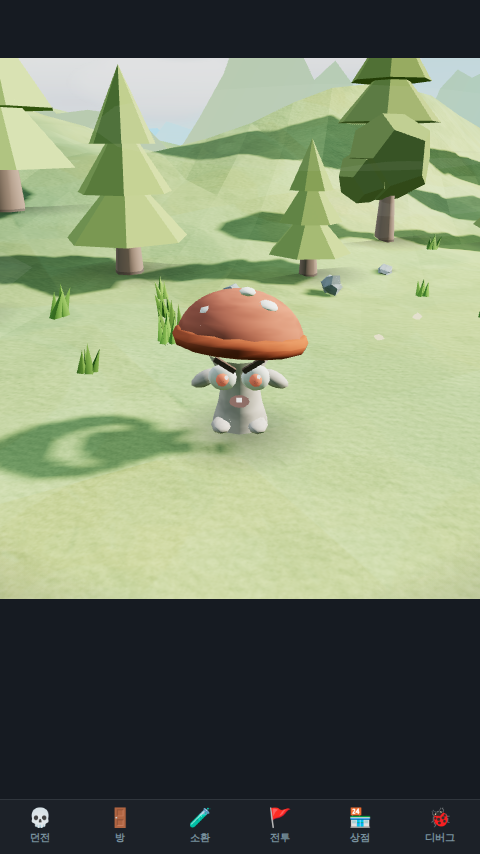
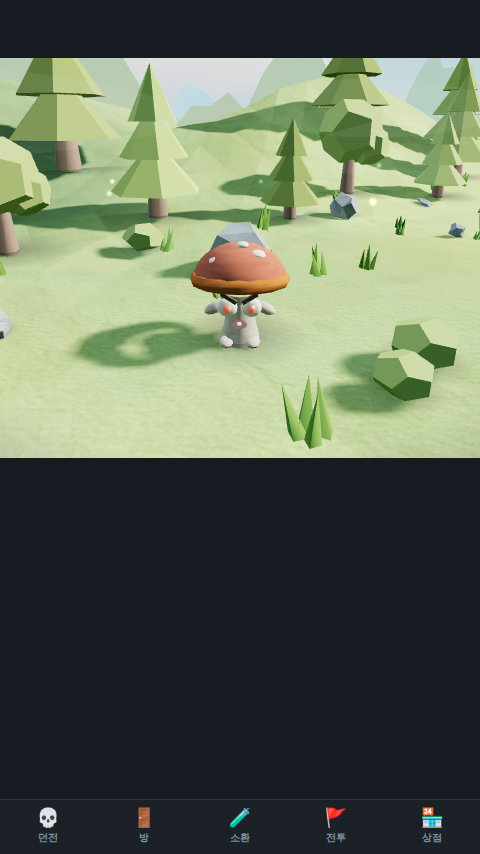
투구 '풍선' 결함 재작업(비평가 5.0 재채점 반영): 두상 밀착 0.85 피팅+스틸 혼합 Phong 금속 재질, 바이저 슬릿 확장+발광 눈 확대(가시화), tech 안테나 소켓 마감, 머리 0.78 재축소+목 기둥 신설, 검증샷 갱신

diff --git a/web/js/scene3d.js b/web/js/scene3d.js
@@ -1791,7 +1791,11 @@ const Scene3D = {
         const g = new THREE.Group();
         const c = AGE_COLORS[age];
         const pc = RARITY_HEX[rarity] || 0xef5350; // 장식 = 등급색
-        const mat = new THREE.MeshLambertMaterial({ color: c });
+        // 시대색 직치환 Lambert는 '고무 풍선'으로 읽힘(비평가) — 스틸 톤에 섞은 뒤 금속 스펙큘러 부여 (갑옷 tint와 동일 원칙)
+        const mat = new THREE.MeshPhongMaterial({
+            color: new THREE.Color(c).lerp(new THREE.Color(0xb8c4cf), 0.32).offsetHSL(0, -0.06, -0.02),
+            shininess: 40, specular: 0x4d565e
+        });
         const darkMat = new THREE.MeshLambertMaterial({ color: 0x263238 });
         const rareMat = new THREE.MeshLambertMaterial({ color: pc, emissive: pc, emissiveIntensity: 0.45 });
         style = style || 'plume';
@@ -1823,22 +1827,22 @@ const Scene3D = {
             helm.scale.set(0.97, 1.02, 1);
             // 슬릿 = 함몰 캐비티: 칠흑 내부 + 림 테두리 + 언릿 발광 눈 (표면 데칼 'T 스티커' 오독 제거, 비평가 지적)
             const cavity = new THREE.MeshBasicMaterial({ color: 0x0c0f12 });
-            const slit = new THREE.Mesh(new THREE.BoxGeometry(0.185, 0.042, 0.07), cavity);
-            slit.position.set(0, 0.06, 0.222); // 림 타원 안쪽에 맞춤 — 모서리가 림 밖으로 새면 '검은 사각 스티커'
-            const rimGeo = new THREE.TorusGeometry(0.105, 0.011, 5, 14); // 슬릿 개구부 금속 림 — 재질 경계로 '뚫린 구멍' 판독
+            const slit = new THREE.Mesh(new THREE.BoxGeometry(0.23, 0.052, 0.07), cavity);
+            slit.position.set(0, 0.06, 0.234); // 림 타원 안쪽에 맞춤 — 모서리가 림 밖으로 새면 '검은 사각 스티커'
+            const rimGeo = new THREE.TorusGeometry(0.128, 0.012, 5, 14); // 슬릿 개구부 금속 림 — 재질 경계로 '뚫린 구멍' 판독
             rimGeo.scale(1, 0.32, 1);
-            const slitRim = new THREE.Mesh(rimGeo, mat);
-            slitRim.position.set(0, 0.06, 0.268);
+            const slitRim = new THREE.Mesh(rimGeo, new THREE.MeshLambertMaterial({ color: mat.color.clone().offsetHSL(0, 0, -0.08) })); // 무광 — Phong 하이라이트가 '유리 브로치'로 오독되던 문제
+            slitRim.position.set(0, 0.06, 0.28);
             g.add(slitRim);
             for (const dx of [-0.055, 0.055]) { // 캐비티 속 언릿 발광 눈 — 어둠 대비 최대
-                const glowEye = new THREE.Mesh(new THREE.SphereGeometry(0.018, 6, 5),
-                    new THREE.MeshBasicMaterial({ color: new THREE.Color(pc).offsetHSL(0, 0.1, 0.18) }));
-                glowEye.position.set(dx, 0.06, 0.276); // 캐비티 전면보다 앞 — 가려지면 무광 슬릿만 남음
+                const glowEye = new THREE.Mesh(new THREE.SphereGeometry(0.027, 6, 5),
+                    new THREE.MeshBasicMaterial({ color: new THREE.Color(pc).offsetHSL(0, 0.18, 0.24) }));
+                glowEye.position.set(dx * 1.2, 0.06, 0.288); // 캐비티 전면보다 앞 — 가려지면 무광 슬릿만 남음
                 glowEye.scale.set(1.3, 0.75, 0.5);
                 g.add(glowEye);
             }
             const noseBar = new THREE.Mesh(new THREE.BoxGeometry(0.045, 0.16, 0.05), mat); // 코 가드 세로 바
-            noseBar.position.set(0, -0.02, 0.25);
+            noseBar.position.set(0, -0.02, 0.262);
             const crest = new THREE.Mesh(new THREE.TorusGeometry(0.21, 0.03, 6, 14, Math.PI * 0.8), rareMat); // 정수리 볏 아크
             crest.position.y = 0.13;
             crest.rotation.y = Math.PI / 2;
@@ -1896,7 +1900,7 @@ const Scene3D = {
             }
         } else if (style === 'tech') {      // 메카 헬름 — 곡면 셸 + 랩어라운드 발광 바이저 (박스 금지, 비평가 1위 결함 재작업)
             const shell = new THREE.Mesh(new THREE.SphereGeometry(0.29, 10, 8), mat);
-            shell.material = new THREE.MeshLambertMaterial({ color: c });
+            shell.material = new THREE.MeshLambertMaterial({ color: new THREE.Color(c).lerp(new THREE.Color(0xb8c4cf), 0.28) }); // 스틸 혼합 — 원색 풍선 방지
             shell.material.flatShading = true;                 // 저폴리 패싯 — 메카 판넬 인상
             shell.position.y = 0.06;
             shell.scale.set(0.98, 0.92, 1.05);
@@ -1925,12 +1929,15 @@ const Scene3D = {
             rGeo.rotateY(Math.PI / 2);
             const ridge = new THREE.Mesh(rGeo, darkMat);
             ridge.position.y = 0.075;
+            const antSock = new THREE.Mesh(new THREE.CylinderGeometry(0.032, 0.046, 0.07, 8), darkMat); // 안테나 소켓 — 셸을 그냥 뚫고 나오던 클리핑(비평가) 마감
+            antSock.position.set(0.195, 0.285, -0.06);
+            antSock.rotation.z = -0.18;
             const ant = new THREE.Mesh(new THREE.CylinderGeometry(0.012, 0.012, 0.2, 6), darkMat);
-            ant.position.set(0.19, 0.34, -0.06);
+            ant.position.set(0.213, 0.4, -0.06);
             ant.rotation.z = -0.18;
             const antTip = new THREE.Mesh(new THREE.SphereGeometry(0.026, 6, 6), rareMat);
-            antTip.position.set(0.21, 0.44, -0.06);
-            g.add(shell, jawGuard, visorArc, ridge, ant, antTip);
+            antTip.position.set(0.232, 0.5, -0.06);
+            g.add(shell, jawGuard, visorArc, ridge, antSock, ant, antTip);
         } else if (style === 'bubble') {    // 우주 헬멧 (투명 돔)
             const bub = new THREE.Mesh(new THREE.SphereGeometry(0.31, 14, 10),
                 new THREE.MeshLambertMaterial({ color: c, transparent: true, opacity: 0.32 }));
@@ -1939,6 +1946,7 @@ const Scene3D = {
             rim.position.y = -0.16;
             g.add(bub, rim);
         }
+        g.scale.setScalar(0.85); // 두상 밀착 피팅 — 헬멧이 머리보다 한 치수 커서 '풍선'으로 읽히던 문제 (비평가 3번 결함)
         return g;
     },
 

diff --git a/web/js/prochar.js b/web/js/prochar.js
@@ -408,9 +408,13 @@ const ProChar = {
         R.bones.neck = neck;
         const headG = new THREE.Group();
         headG.position.y = 0.1;
-        headG.scale.setScalar(0.82); // 보블헤드 완화 — 머리·견갑·어깨가 '같은 크기 공 3개'로 뭉개지던 문제 (비평가 지적)
+        headG.scale.setScalar(0.78); // 보블헤드 완화 — 머리·견갑·어깨가 '같은 크기 공 3개'로 뭉개지던 문제 (비평가 지적, 0.82→0.78 재축소)
         neck.add(headG);
         R.bones.head = headG;
+        // 목 기둥 — 머리가 몸통 위에 떠 보이던 문제 (비평가: 목 연결부 부재)
+        const neckMesh = new THREE.Mesh(new THREE.CylinderGeometry(0.062, 0.078, 0.14, 10), skin);
+        neckMesh.position.y = 0.03;
+        neck.add(neckMesh);
         // 얼굴 — 둥근 두상 + 턱 라운딩 (헬멧 미착용 시 노출)
         const skull = new THREE.Mesh(new THREE.SphereGeometry(0.19, 16, 12), skin);
         skull.position.y = 0.08;
